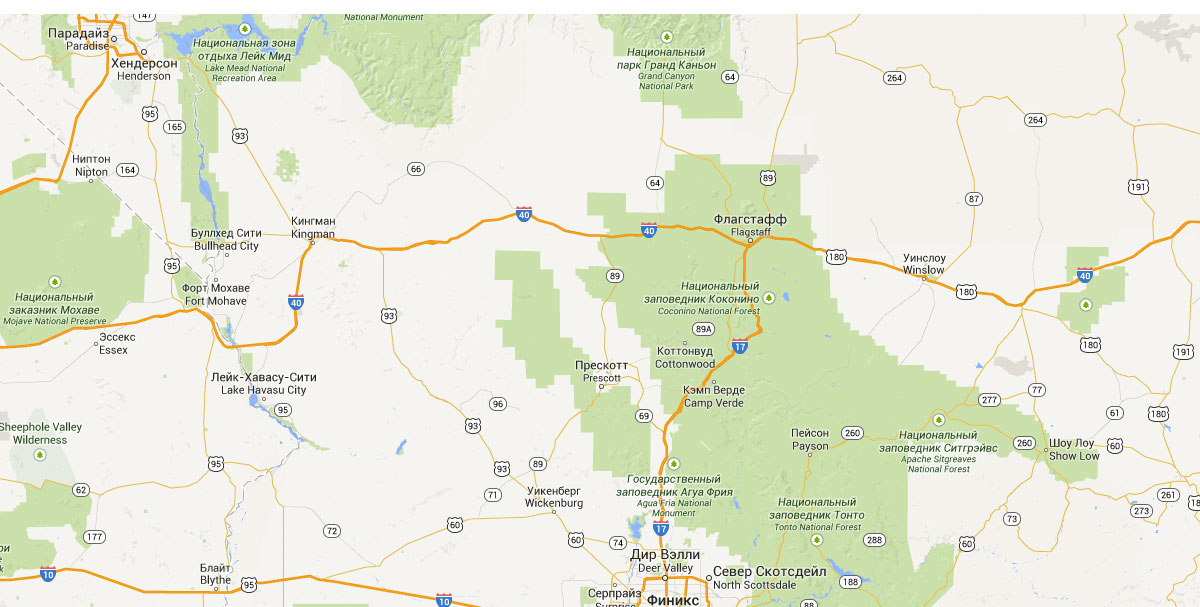
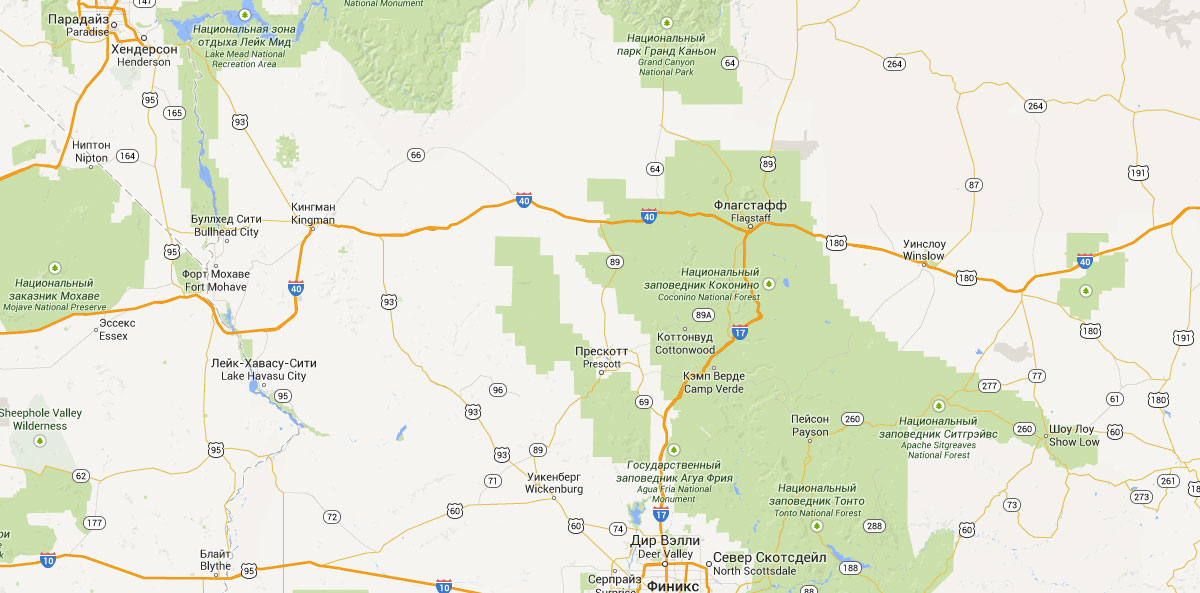
работа с картой

diff --git a/index.html b/index.html
@@ -28,10 +28,10 @@
 
             <main class="main">
                 <figure class="bg-sedona">
-                <img class="bg-sedona__welcome" src="../img/text-welcome.svg" alt="">
-                <img class="bg-sedona__to-the" src="../img/text-tothegorgeous.svg" alt="">
-                <img class="bg-sedona__sedona" src="../img/text-sedona.svg" alt="">
-                <img class="bg-sedona__because" src="../img/text-becausecanyon.svg" alt="">
+                    <img class="bg-sedona__welcome" src="img/text-welcome.svg">
+                    <img class="bg-sedona__to-the" src="img/text-tothegorgeous.svg">
+                    <img class="bg-sedona__sedona" src="img/text-sedona.svg">
+                    <img class="bg-sedona__because" src="img/text-becausecanyon.svg">
                 </figure>
                 <div class="reasons">
                     <p class="reasons__title">Седона - небольшой городок в Аризоне, заслуживающий большего!</p>
@@ -106,6 +106,9 @@
                     <p class="ordering__text">Укажите предполагаемые даты поездки и мы покажем вам лучшие предложения гостиниц в Седоне</p>
                     <div class="ordering-layout">
                         <p class="ordering__search">Поиск гостиницы в Седоне</p>
+                        <figure class="ordering__map">
+                            <img class="ordering__map-img" src="img/pict-map.jpg">
+                        </figure>
                         <form class="ordering-form" action="#" method="post">
                             <label class="ordering-form__date">
                                 <p class="ordering-form__lbl">Дата заезда:</p>
@@ -135,7 +138,7 @@
                             </fieldset>
                             <input class="ordering-form__btn" type="submit" value="Найти">
                         </form>
-                    </div>
+                    </div>                    
                 </div>
             </main>
 

diff --git a/less/style.less b/less/style.less
@@ -14,22 +14,9 @@ body {
     flex-direction: column;
     position: relative;
     max-width: 1200px;
-    margin: 0 auto;    
-    //.background (url("../img/bg-top.jpg") no-repeat center top);
-    .background (url("../img/pict-map.jpg") no-repeat center bottom);
+    margin: 0 auto;
     .background (@bg-main);
-    box-shadow: 0 5px 15px 0 @bg-shadow;
-    
-//    &:before {
-//        content: '';
-//        position: absolute;
-//        top: 507px;
-//        left: 0;
-//        width: 100%;
-//        height: 57px;
-//        background: url("../img/bg-top-mask.png") no-repeat center bottom;
-//        background-size: 100%;
-//    }
+    box-shadow: 0 5px 15px 0 @bg-shadow;    
 }
 
 .bg-sedona {
@@ -220,6 +207,16 @@ body {
         color: @color-light;
     }
     
+    
+    &__map {
+        position: relative;
+        margin: 0;
+        
+        &-img {
+            
+        }
+    }
+    
     &-form {
         padding: (@font-size * (50px / 14px)) 8.8%;
         background: @bg-main;
@@ -326,7 +323,7 @@ body {
             .background (@bg-second);
             text-transform: uppercase;
         }
-    }
+    }    
 }
 
 

diff --git a/css/style.css b/css/style.css
@@ -18,7 +18,7 @@ body {
   position: relative;
   max-width: 1200px;
   margin: 0 auto;
-  background: url("../img/pict-map.jpg") no-repeat center bottom, #ffffff;
+  background: #ffffff;
   color: #000000;
   -webkit-box-shadow: 0 5px 15px 0 rgba(0, 1, 1, 0.2);
   box-shadow: 0 5px 15px 0 rgba(0, 1, 1, 0.2);
@@ -224,6 +224,10 @@ body {
   line-height: 1.23809524;
   font-weight: bold;
   color: #ffffff;
+}
+.ordering__map {
+  position: relative;
+  margin: 0;
 }
 .ordering-form {
   padding: 50px 8.8%;
